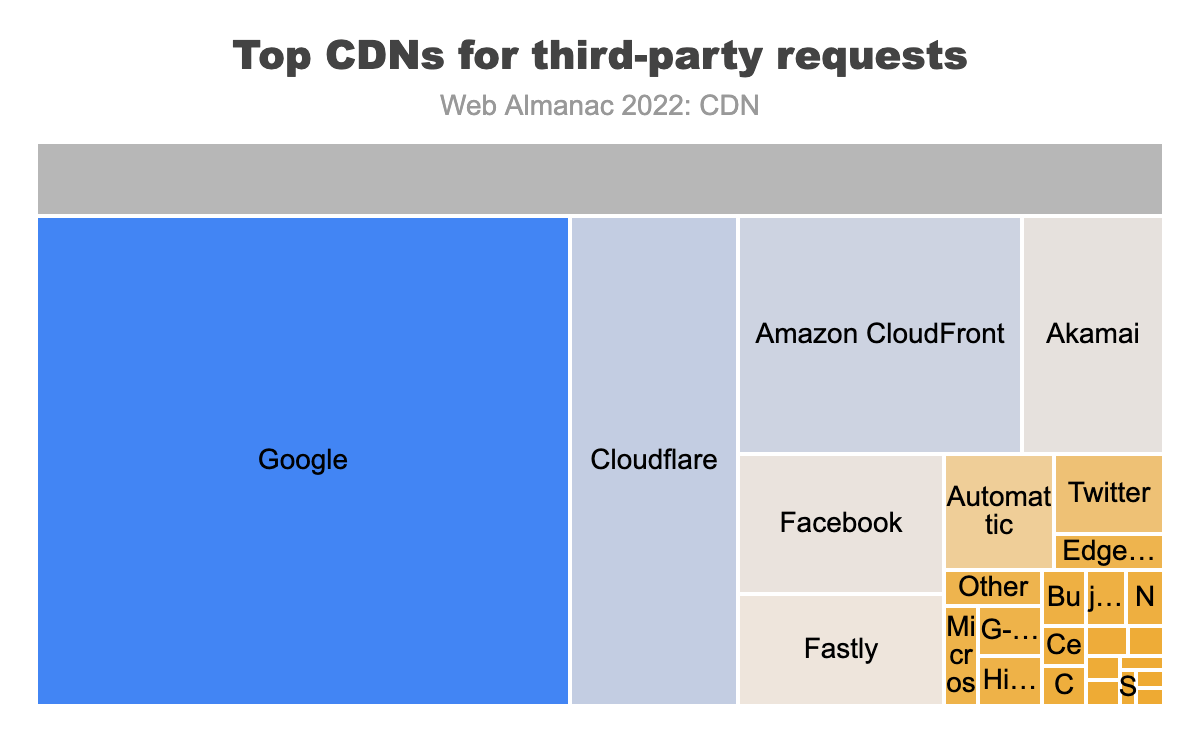
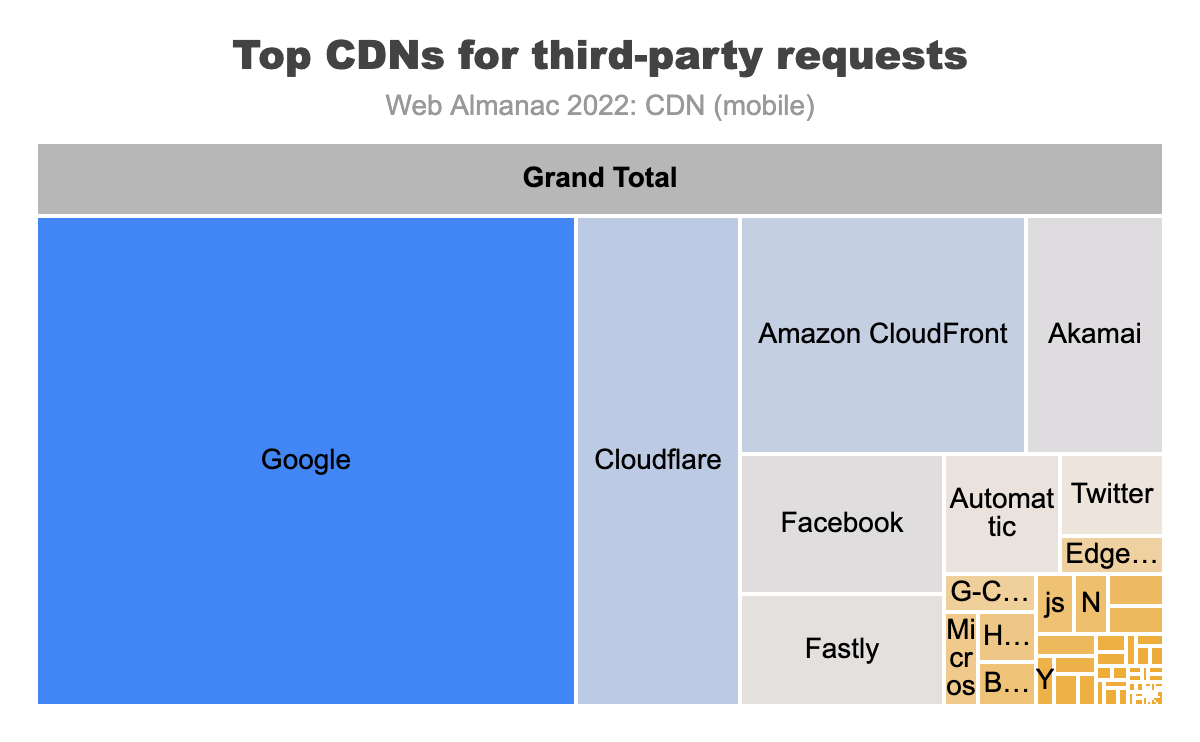
Fix some images

diff --git a/src/content/en/2022/cdn.md b/src/content/en/2022/cdn.md
@@ -160,21 +160,21 @@ Generic CDNs address the mass market requirements. Their offerings include:
 This appeals to a larger set of industries and is reflected in the data.
 
 {{ figure_markup(
-  image="top-cdns.png",
+  image="top-cdns-html.png",
   caption="Top CDNs for HTML requests on mobile.",
-  description="Box plot showing the top CDN providers serving HTML requests. Cloudflare tops the list by serving 54% of the HTML requests followed by Google at 20%, Fastly at 8%, CloudFront at 7% and Akamai at 3%.",
-  chart_url="https://docs.google.com/spreadsheets/d/e/2PACX-1vRZQqyyKiQWgICD_a0WaEAmfZyFN_Zi3wVuQnZxsXqwZ_1JQg2x7GpRw4CTkX4gKvurzoCQ6YokkdpM/pubchart?oid=191918239&format=interactive",
+  description="Box plot showing the top CDN providers serving HTML requests. Cloudflare tops the list by serving 52% of the HTML requests followed by Google at 22%, Fastly at 9%, CloudFront at 6% and Akamai and Automattic at 3%.",
+  chart_url="https://docs.google.com/spreadsheets/d/e/2PACX-1vRZQqyyKiQWgICD_a0WaEAmfZyFN_Zi3wVuQnZxsXqwZ_1JQg2x7GpRw4CTkX4gKvurzoCQ6YokkdpM/pubchart?oid=1688291462&format=interactive",
   sheets_gid="2085205637",
   sql_file="top_cdns.sql"
   )
 }}
 
-The above igure shows the top CDN providers for base HTML requests. The top vendors in this category are Cloudflare, Google, Fastly Amazon CloudFront and Akamai.
+The above figure shows the top CDN providers for base HTML requests. The top vendors in this category are Cloudflare, Google, Fastly Amazon CloudFront, Akamai and Atomattic.
 
 {{ figure_markup(
   image="top-cdns-subdomain.png",
   caption="Top CDNs for subdomain requests on mobile.",
-  description="Box plot showing the top CDN providers serving subdomain requests. Cloudflare tops the list by serving 35% of the subdomain requests followed by CloudFront at 20%, Google at 14%, Automattic at 7%, Akamai at 6% and Fastly at 3%.",
+  description="Box plot showing the top CDN providers serving subdomain requests. Cloudflare tops the list by serving 35% of the subdomain requests followed by CloudFront at 18%, Google at 17%, Automattic at 9%, Akamai at 5% and Fastly at 3%.",
   chart_url="https://docs.google.com/spreadsheets/d/e/2PACX-1vRZQqyyKiQWgICD_a0WaEAmfZyFN_Zi3wVuQnZxsXqwZ_1JQg2x7GpRw4CTkX4gKvurzoCQ6YokkdpM/pubchart?oid=1743984972&format=interactive",
   sheets_gid="2085205637",
   sql_file="top_cdns.sql"
@@ -183,12 +183,11 @@ The above igure shows the top CDN providers for base HTML requests. The top vend
 
 For the subdomain requests we can see greater usage of providers like Amazon and Google. This is because many users have their content hosted in the cloud services they provide and the users utilize CDN offerings along with their cloud services. This helps the users to scale their applications and increase the performance of their application.
 
-
 {{ figure_markup(
   image="top-cdns-3p.png",
   caption="Top CDNs for third-party requests on mobile.",
-  description="Box plot showing the top CDN providers serving third-party requests. Google tops the list by serving 47.0% of the third-party requests followed by Cloudlare at 15%, CloudFront at 12%, Facebook at 5% and Fastly at 4%.",
-  chart_url="https://docs.google.com/spreadsheets/d/e/2PACX-1vRZQqyyKiQWgICD_a0WaEAmfZyFN_Zi3wVuQnZxsXqwZ_1JQg2x7GpRw4CTkX4gKvurzoCQ6YokkdpM/pubchart?oid=2000521049&format=interactive",
+  description="Box plot showing the top CDN providers serving third-party requests. Google tops the list by serving 48% of the third-party requests followed by Cloudlare at 15%, CloudFront at 12%, Akamai at 6%, Facebook at 5% and Fastly at 4%.",
+  chart_url="https://docs.google.com/spreadsheets/d/e/2PACX-1vRZQqyyKiQWgICD_a0WaEAmfZyFN_Zi3wVuQnZxsXqwZ_1JQg2x7GpRw4CTkX4gKvurzoCQ6YokkdpM/pubchart?oid=1502237125&format=interactive",
   sheets_gid="2085205637",
   sql_file="top_cdns.sql"
   )
